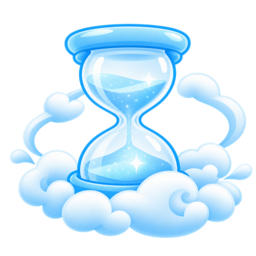
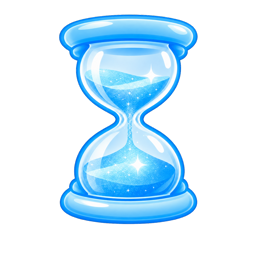
proper UI stylization

diff --git a/src/styles/global.css b/src/styles/global.css
@@ -34,6 +34,10 @@
   .glass-dark { @apply rounded-card border border-white/20 bg-white/10 backdrop-blur-2xl; box-shadow: inset 0 1px 0 rgb(255 255 255 / .22); }
   .section-glass { @apply rounded-[2rem] border border-white/65 bg-white/35 p-5 text-center backdrop-blur-xl sm:p-8 lg:p-10; box-shadow: inset 0 1px 0 rgb(255 255 255 / .72), inset 0 0 0 1px rgb(255 255 255 / .12); }
   .screen-section { min-height: calc(100svh - 4.5rem); display: flex; align-items: center; }
+  .hero-slideshow { position: absolute; inset: 0; z-index: 0; overflow: hidden; pointer-events: none; }
+  .hero-slide { position: absolute; inset: 0; width: 100%; height: 100%; object-fit: cover; opacity: 0; transform: scale(1.04); filter: saturate(.72) contrast(.9); transition: opacity 1.1s ease, transform 4.5s ease; }
+  .hero-slide.is-active { opacity: 1; transform: scale(1); }
+  .hero-wash { position: absolute; inset: 0; z-index: 1; pointer-events: none; background: linear-gradient(135deg, rgb(255 255 255 / .52) 0%, rgb(255 255 255 / .34) 52%, rgb(245 247 248 / .42) 100%); backdrop-filter: blur(7px) saturate(.82); }
   .display { @apply font-semibold leading-[.96] tracking-[-.032em]; }
   .founding-float { position: fixed; right: 1rem; bottom: 1rem; z-index: 40; overflow: visible; }
   .founding-timer { @apply flex cursor-pointer items-center gap-2 border-0 bg-transparent p-0 text-left text-ink focus-visible:outline-2 focus-visible:outline-offset-4 focus-visible:outline-violet; }
@@ -54,17 +58,23 @@
   .brand-logo { position: relative; z-index: 1; transition: transform .35s cubic-bezier(.2,.8,.2,1), filter .35s ease; }
   .brand-lockup::before { content: ""; position: absolute; z-index: 0; left: -.35rem; top: -.35rem; width: 3.2rem; height: 3.2rem; border-radius: 999px; background: rgb(185 228 250 / .7); opacity: 0; transform: scale(.55); filter: blur(7px); transition: opacity .35s ease, transform .35s cubic-bezier(.2,.8,.2,1); }
   .brand-lockup:hover::before, .brand-lockup:focus-visible::before { opacity: 1; transform: scale(1.18); }
+  .brand-lockup::after { content: ""; position: absolute; z-index: 2; left: .35rem; top: 2.45rem; width: 2.5rem; height: .55rem; border-bottom: 2px solid #e8b44f; border-radius: 50%; opacity: 0; pointer-events: none; transform: rotate(-10deg) scaleX(.1); transform-origin: left center; }
+  .brand-lockup:hover::after, .brand-lockup:focus-visible::after { opacity: .9; animation: scribble-draw .78s ease-in-out infinite; }
   .brand-lockup:hover .brand-logo, .brand-lockup:focus-visible .brand-logo { transform: scale(1.1) rotate(-2deg); filter: drop-shadow(0 5px 8px rgb(35 135 181 / .18)); }
+  .brand-lockup:hover .brand-logo, .brand-lockup:focus-visible .brand-logo { animation: logo-scribble .78s ease-in-out infinite; }
   .nav-link { position: relative; padding-block: .35rem; }
   .nav-link::after { content: ""; position: absolute; right: 0; bottom: 0; left: 0; height: 2px; border-radius: 999px; background: #2387b5; transform: scaleX(0); transform-origin: right; transition: transform .3s ease; }
   .nav-link:hover::after, .nav-link:focus-visible::after { transform: scaleX(1); transform-origin: left; }
-  .brand-star { position: absolute; z-index: 3; left: 1.35rem; top: 1.25rem; color: #fff; font-size: .8rem; line-height: 1; opacity: 0; pointer-events: none; text-shadow: 0 0 7px rgb(255 255 255 / .95), 0 0 12px rgb(232 180 79 / .75); animation: brand-star-shoot .65s cubic-bezier(.18,.72,.25,1) forwards; }
-  @keyframes brand-star-shoot { 0% { opacity: 0; transform: translate(0, 0) scale(.25); } 15% { opacity: 1; } 100% { opacity: 0; transform: translate(var(--brand-x), var(--brand-y)) scale(1.05) rotate(-18deg); } }
+  .brand-star { position: absolute; z-index: 3; left: 1.35rem; top: 1.25rem; color: #e8b44f; font-size: var(--brand-size, .8rem); line-height: 1; opacity: 0; pointer-events: none; text-shadow: 0 0 7px rgb(255 235 160 / .95), 0 0 12px rgb(232 180 79 / .75); animation: brand-star-shoot .72s cubic-bezier(.18,.72,.25,1) forwards; }
+  @keyframes logo-scribble { 0%, 100% { transform: scale(1.1) rotate(-2deg) translate(0, 0); } 25% { transform: scale(1.1) rotate(-5deg) translate(-1px, 1px); } 50% { transform: scale(1.1) rotate(2deg) translate(1px, -1px); } 75% { transform: scale(1.1) rotate(-4deg) translate(-1px, 0); } }
+  @keyframes scribble-draw { 0%, 100% { transform: rotate(-10deg) scaleX(.2); } 50% { transform: rotate(8deg) scaleX(1); } }
+  @keyframes brand-star-shoot { 0% { opacity: 0; transform: translate(0, 0) scale(.25) rotate(0deg); } 14% { opacity: 1; } 100% { opacity: 0; transform: translate(var(--brand-x), var(--brand-y)) scale(1.15) rotate(-24deg); } }
 
 }
 
 @layer utilities {
   .hero-grid { background: radial-gradient(ellipse at 18% 18%, rgb(255 255 255 / .82) 0 9%, transparent 25%), radial-gradient(ellipse at 84% 22%, rgb(255 255 255 / .56) 0 10%, transparent 28%), radial-gradient(circle at 78% 78%, rgb(232 180 79 / .22), transparent 24%), linear-gradient(135deg, #dff4ff 0%, #b9e4fa 48%, #8ecae9 100%); }
+  .hero-stage { background: #b9e4fa; }
   .pastel-pathway { background: radial-gradient(circle at 14% 18%, rgb(255 255 255 / .72), transparent 27%), radial-gradient(circle at 86% 82%, rgb(255 214 190 / .78), transparent 32%), linear-gradient(135deg, #fff0e8 0%, #ffe8d6 48%, #ffe1c9 100%); }
   .pastel-stories { background: radial-gradient(circle at 84% 14%, rgb(255 255 255 / .78), transparent 26%), radial-gradient(circle at 15% 84%, rgb(249 205 224 / .68), transparent 31%), linear-gradient(135deg, #f4edff 0%, #eee5ff 52%, #f9e6ef 100%); }
   .pastel-nexus { background: radial-gradient(circle at 12% 22%, rgb(255 255 255 / .74), transparent 28%), radial-gradient(circle at 87% 78%, rgb(217 240 225 / .76), transparent 34%), linear-gradient(135deg, #e9f8ef 0%, #e3f3ed 48%, #e8e4fb 100%); }
